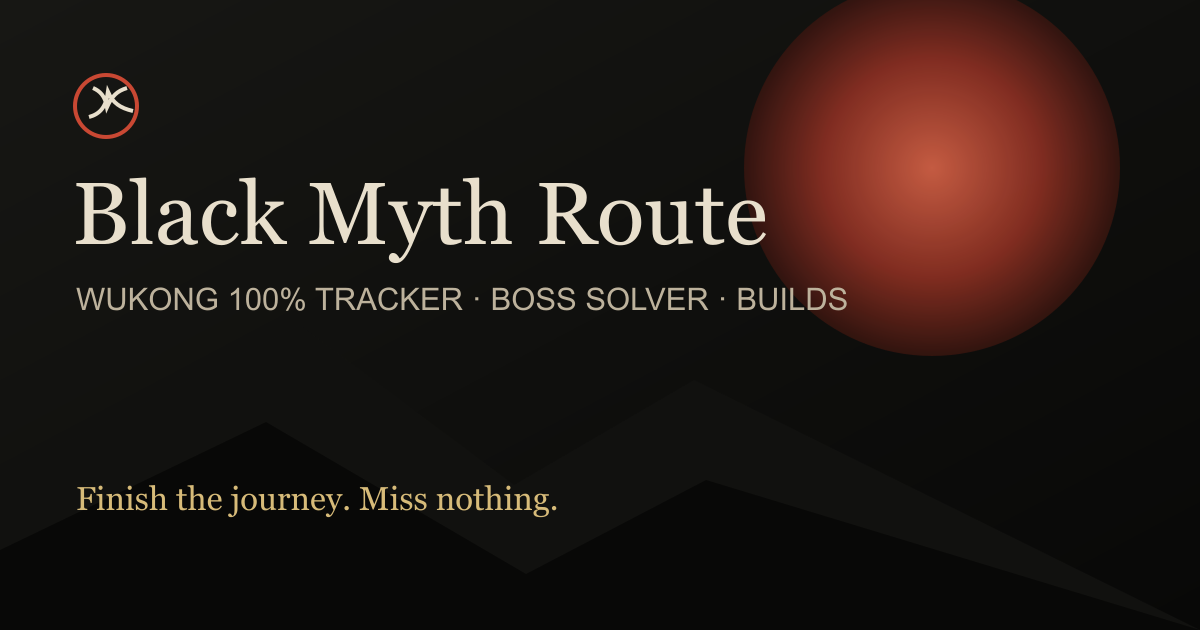
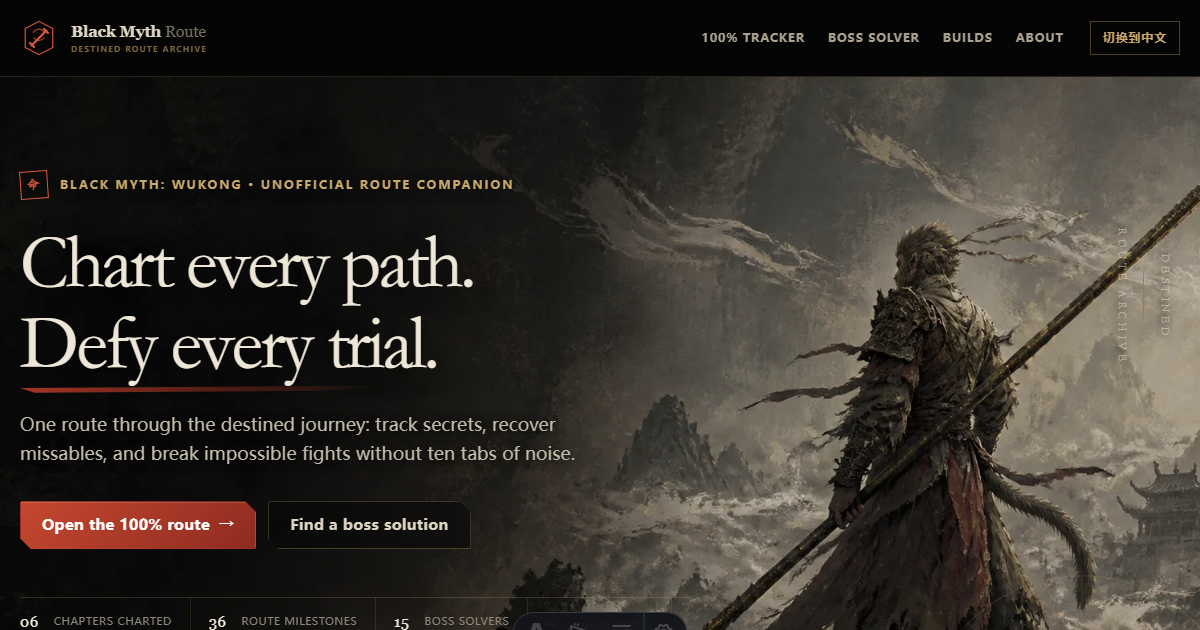
feat: redesign site with mythic monkey-king visual system

diff --git a/src/styles/visual-v2.css b/src/styles/visual-v2.css
@@ -1,0 +1,243 @@
+@layer base {
+  :root {
+    --cinnabar-400: #e05b3f;
+    --cinnabar-500: #b83a28;
+    --cinnabar-700: #642016;
+    --gold-300: #c9a86a;
+    --gold-500: #846a3c;
+    --paper-50: #eee7d7;
+    --paper-100: #ddd4c1;
+    --paper-300: #aaa18f;
+    --paper-500: #756e61;
+    --ink-950: #060706;
+    --ink-900: #0d0e0c;
+    --ink-850: #121310;
+    --ink-800: #191a16;
+    --line: rgba(216, 204, 180, .13);
+    --line-strong: rgba(216, 204, 180, .27);
+    --serif: 'STKaiti', 'KaiTi', 'Noto Serif SC', 'Source Han Serif SC', 'Songti SC', Georgia, serif;
+  }
+
+  body {
+    background:
+      radial-gradient(circle at 18% 18%, rgba(139, 116, 72, .07), transparent 32rem),
+      linear-gradient(90deg, rgba(255,255,255,.012) 1px, transparent 1px) 0 0 / 72px 72px,
+      var(--ink-950);
+  }
+}
+
+@layer components {
+  .site-header {
+    border-bottom-color: rgba(201,168,106,.18);
+    background: rgba(5, 6, 5, .9);
+  }
+  .nav-shell { min-height: 76px; }
+  .brand { gap: 13px; }
+  .brand-mark { width: 38px; height: 38px; color: var(--cinnabar-400); filter: drop-shadow(0 0 12px rgba(224,91,63,.13)); }
+  .brand-lockup { display: grid; gap: 0; line-height: 1.1; }
+  .brand-word { font-family: Georgia, var(--serif); font-size: 1.02rem; letter-spacing: -.025em; }
+  .brand-lockup small { margin-top: 4px; color: var(--gold-500); font-family: var(--sans); font-size: .48rem; font-weight: 700; letter-spacing: .18em; }
+  .nav-links { gap: 13px; }
+  .nav-links a { position: relative; min-height: 42px; padding: 8px 5px; border-radius: 0; font-size: .75rem; font-weight: 650; letter-spacing: .07em; text-transform: uppercase; }
+  .nav-links a::after { content: ''; position: absolute; left: 50%; right: 50%; bottom: 3px; height: 1px; background: var(--cinnabar-400); transition: left 180ms ease, right 180ms ease; }
+  .nav-links a:hover, .nav-links a[aria-current='page'] { background: transparent; }
+  .nav-links a:hover::after, .nav-links a[aria-current='page']::after { left: 5px; right: 5px; }
+  .nav-links .lang-switch { min-height: 34px; margin-left: 8px; padding: 5px 12px; border-color: rgba(201,168,106,.36); color: var(--gold-300); }
+
+  .hero {
+    isolation: isolate;
+    min-height: min(970px, calc(100svh - 76px));
+    padding-block: clamp(94px, 14vh, 150px) 38px;
+    background: #090a08;
+  }
+  .hero::before {
+    inset: 0;
+    width: auto;
+    aspect-ratio: auto;
+    right: 0;
+    top: 0;
+    border-radius: 0;
+    background-image: url('/images/hero-monkey-pilgrim-v2.webp');
+    background-position: center center;
+    background-size: cover;
+    box-shadow: none;
+    opacity: .84;
+    filter: saturate(.82) contrast(1.06);
+  }
+  .hero::after {
+    inset: 0;
+    height: auto;
+    z-index: -1;
+    background:
+      linear-gradient(90deg, rgba(5,6,5,.98) 0%, rgba(5,6,5,.88) 31%, rgba(5,6,5,.26) 62%, rgba(5,6,5,.08) 100%),
+      linear-gradient(0deg, #060706 0%, rgba(6,7,6,.8) 8%, transparent 34%, rgba(6,7,6,.1) 78%, rgba(6,7,6,.56) 100%);
+  }
+  .hero-content { gap: 24px; }
+  .hero-content::before { content: ''; position: absolute; left: -24px; top: 3px; bottom: 168px; width: 1px; background: linear-gradient(var(--cinnabar-400), transparent 72%); opacity: .5; }
+  .hero-kicker { display: flex; align-items: center; gap: 12px; color: var(--gold-300); text-shadow: 0 2px 14px #000; }
+  .mini-seal { display: grid; width: 28px; aspect-ratio: 1; place-items: center; border: 1px solid var(--cinnabar-400); color: var(--cinnabar-400); font-family: var(--serif); font-size: .8rem; transform: rotate(-4deg); }
+  .display { max-width: 800px; font-size: clamp(3.5rem, 6.4vw, 6.5rem); color: var(--paper-50); letter-spacing: -.045em; text-shadow: 0 4px 24px rgba(0,0,0,.55); }
+  .display em { position: relative; color: var(--paper-50); }
+  .display em::after { content: ''; position: absolute; left: 0; right: 12%; bottom: -.07em; height: 7px; background: linear-gradient(90deg, var(--cinnabar-500), transparent); clip-path: polygon(0 32%, 100% 0, 83% 70%, 4% 100%); opacity: .9; }
+  .hero .lede { max-width: 590px; color: #c1b9a8; font-size: clamp(1rem, 1.5vw, 1.15rem); text-shadow: 0 2px 12px #000; }
+  .hero-actions { margin-top: 8px; }
+  .button {
+    min-height: 48px;
+    border-radius: 2px;
+    padding-inline: 21px;
+    clip-path: polygon(0 0, calc(100% - 11px) 0, 100% 11px, 100% 100%, 11px 100%, 0 calc(100% - 11px));
+    letter-spacing: .035em;
+  }
+  .button:not(.secondary):not(.ghost) { background: linear-gradient(135deg, #c44730, #8f2b20); box-shadow: inset 0 1px rgba(255,255,255,.14), 0 10px 35px rgba(154,45,30,.18); }
+  .button:not(.secondary):not(.ghost):hover { background: linear-gradient(135deg, #e05b3f, #a83324); }
+  .button.secondary { border-color: rgba(201,168,106,.33); background: rgba(7,8,7,.56); backdrop-filter: blur(8px); }
+  .button.secondary:hover { border-color: var(--gold-300); background: rgba(201,168,106,.08); }
+
+  .hero-proof { gap: 0; margin-top: 24px; border-top: 1px solid rgba(201,168,106,.22); border-bottom: 1px solid rgba(201,168,106,.12); width: fit-content; }
+  .hero-proof span { min-width: 126px; padding: 12px 18px 11px 0; margin-right: 18px; border-right: 1px solid rgba(201,168,106,.15); color: #8e887b; font-size: .67rem; letter-spacing: .06em; text-transform: uppercase; }
+  .hero-proof span::before { display: none; }
+  .hero-proof b { margin-right: 7px; color: var(--paper-50); font-family: Georgia, serif; font-size: .92rem; font-weight: 400; }
+  .hero-rune { position: absolute; z-index: 0; right: -68px; bottom: -90px; width: min(420px, 31vw); color: rgba(201,168,106,.12); pointer-events: none; }
+  .hero-rune svg { fill: none; stroke: currentColor; stroke-width: 1; }
+  .hero-rune svg circle:nth-child(2) { stroke-dasharray: 2 8; }
+  .hero-inscription { position: absolute; z-index: 2; right: max(26px, calc((100vw - 1180px) / 2 - 64px)); top: 20%; display: grid; justify-items: center; gap: 12px; color: rgba(238,231,215,.46); font-family: var(--serif); font-size: .7rem; letter-spacing: .32em; writing-mode: vertical-rl; text-shadow: 0 2px 9px #000; }
+  .hero-inscription i { width: 1px; height: 46px; background: var(--cinnabar-400); }
+
+  .starter-card {
+    grid-template-columns: 1.35fr repeat(3, 1fr) auto;
+    gap: 1px;
+    margin-top: 10px;
+    padding: 1px;
+    overflow: hidden;
+    border-color: rgba(201,168,106,.32);
+    border-radius: 2px;
+    background: rgba(201,168,106,.24);
+    box-shadow: 0 28px 80px rgba(0,0,0,.5);
+    clip-path: polygon(0 0, calc(100% - 18px) 0, 100% 18px, 100% 100%, 18px 100%, 0 calc(100% - 18px));
+  }
+  .starter-card > * { height: 100%; padding: 15px 17px; background: rgba(11,12,10,.93); }
+  .starter-intro { display: flex; align-items: center; gap: 13px; padding-right: 17px; }
+  .starter-seal { display: grid; flex: 0 0 38px; aspect-ratio: 1; place-items: center; border: 1px solid var(--cinnabar-400); color: var(--cinnabar-400); font-family: var(--serif); font-size: 1.05rem; transform: rotate(-3deg); }
+  .starter-intro strong { font-size: 1.05rem; }
+  .starter-intro span:not(.starter-seal) { letter-spacing: .035em; }
+  .starter-card .field { gap: 4px; }
+  .starter-card .field label { color: #8d836f; font-size: .61rem; letter-spacing: .13em; }
+  .starter-card .select { min-height: 38px; padding: 5px 8px; border: 0; border-bottom: 1px solid rgba(201,168,106,.25); border-radius: 0; background: transparent; }
+  .starter-card .starter-submit { align-self: stretch; min-height: 64px; margin: 0; border-radius: 0; clip-path: none; }
+
+  .section-head { position: relative; }
+  .section-head::before { content: ''; position: absolute; left: -22px; top: 3px; width: 2px; height: 42px; background: var(--cinnabar-500); }
+  .section-title { color: var(--paper-50); }
+  .feature-grid { gap: 16px; border: 0; }
+  .feature-card {
+    position: relative;
+    min-height: 340px;
+    overflow: hidden;
+    padding: 28px;
+    border: 1px solid var(--line);
+    background:
+      radial-gradient(circle at 100% 0, rgba(201,168,106,.08), transparent 46%),
+      linear-gradient(145deg, #151612, #0d0e0c 66%);
+    clip-path: polygon(0 0, calc(100% - 19px) 0, 100% 19px, 100% 100%, 0 100%);
+  }
+  .feature-card::after { content: ''; position: absolute; inset: auto 0 0; height: 2px; background: linear-gradient(90deg, var(--cinnabar-500), transparent 72%); transform: scaleX(.22); transform-origin: left; transition: transform 220ms ease; }
+  .feature-card:hover::after { transform: scaleX(1); }
+  .feature-sigil { position: absolute; top: 25px; right: 25px; width: 68px; height: 68px; fill: none; stroke: rgba(201,168,106,.32); stroke-width: 1.3; }
+  .feature-card h3 { max-width: 260px; margin-top: 118px; color: var(--paper-50); }
+  .feature-card p { max-width: 300px; }
+
+  .progress-orbit::before { border-color: rgba(201,168,106,.25); box-shadow: inset 0 0 70px rgba(201,168,106,.04); }
+  .progress-orbit::after { border-color: rgba(201,168,106,.22); }
+  .progress-orbit .sun { position: relative; border: 1px solid rgba(224,91,63,.45); background: radial-gradient(circle at 42% 38%, #773326, #241410 62%, #0a0b09 70%); }
+  .progress-orbit .sun::before { content: '悟'; position: absolute; top: -36%; right: -24%; color: rgba(201,168,106,.15); font-family: var(--serif); font-size: 8rem; font-weight: 700; }
+
+  .page-hero {
+    position: relative;
+    overflow: hidden;
+    isolation: isolate;
+    padding-block: 98px 70px;
+    background:
+      linear-gradient(90deg, rgba(6,7,6,.98), rgba(6,7,6,.83) 52%, rgba(6,7,6,.45)),
+      url('/images/hero-monkey-pilgrim-v2.webp') center 29% / cover;
+  }
+  .page-hero::after { content: ''; position: absolute; inset: 0; z-index: -1; background: linear-gradient(0deg, var(--ink-950), transparent 45%); }
+  .page-hero .shell { position: relative; z-index: 1; }
+  .page-hero .shell::before { content: ''; position: absolute; left: -22px; top: 0; width: 2px; height: 100%; background: linear-gradient(var(--cinnabar-500), transparent); }
+  .page-title { color: var(--paper-50); text-shadow: 0 4px 22px rgba(0,0,0,.64); }
+
+  .progress-panel, .control-panel, .notice-card, .content-card, .aside-card {
+    border-color: rgba(201,168,106,.17);
+    border-radius: 2px;
+    background: linear-gradient(145deg, rgba(22,23,19,.92), rgba(11,12,10,.94));
+    clip-path: polygon(0 0, calc(100% - 12px) 0, 100% 12px, 100% 100%, 0 100%);
+  }
+  .progress-ring { background: conic-gradient(var(--cinnabar-400) calc(var(--progress) * 1%), #2c2a24 0); }
+  .progress-ring::after { content: '路'; position: absolute; right: -12px; top: -8px; color: rgba(201,168,106,.2); font-family: var(--serif); font-size: 2.4rem; }
+  .filter-button { border-radius: 2px; }
+  .filter-button:hover, .filter-button[aria-pressed='true'] { border-color: var(--cinnabar-500); background: rgba(184,58,40,.15); }
+  .input, .select { border-radius: 2px; border-color: rgba(201,168,106,.18); background: #0e0f0d; }
+  .objective-card {
+    border-radius: 2px;
+    border-color: rgba(201,168,106,.13);
+    background: linear-gradient(90deg, rgba(20,21,18,.96), rgba(11,12,10,.92));
+    clip-path: polygon(0 0, calc(100% - 10px) 0, 100% 10px, 100% 100%, 0 100%);
+  }
+  .objective-card::before { content: ''; position: absolute; inset: 0 auto 0 0; width: 2px; background: var(--gold-500); opacity: .55; }
+  .objective-card[data-category='boss']::before { background: var(--cinnabar-400); }
+  .objective-card[data-category='secret']::before { background: #877449; }
+  .objective-card:hover { border-color: rgba(201,168,106,.38); }
+  .objective-check { border-radius: 2px; transform: rotate(45deg) scale(.78); }
+  .objective-check:checked { border-radius: 2px; }
+  .objective-copy h3 { color: var(--paper-50); }
+
+  .card-grid { gap: 16px; }
+  .boss-card, .build-card {
+    min-height: 310px;
+    border-radius: 2px;
+    border-color: rgba(201,168,106,.16);
+    background:
+      radial-gradient(circle at 90% 8%, rgba(130,103,58,.11), transparent 38%),
+      linear-gradient(150deg, #171814, #0b0c0a 72%);
+    clip-path: polygon(0 0, calc(100% - 18px) 0, 100% 18px, 100% 100%, 0 100%);
+  }
+  .boss-card::before { content: attr(data-chapter-mark); inset: auto 22px 0 auto; width: auto; height: auto; border: 0; color: rgba(201,168,106,.09); font-family: var(--serif); font-size: 7.5rem; line-height: .8; }
+  .boss-card::after, .build-card::after { content: ''; position: absolute; inset: 0 0 auto; height: 2px; background: linear-gradient(90deg, var(--cinnabar-500), transparent 65%); opacity: .55; }
+  .boss-card:hover, .build-card:hover { border-color: rgba(201,168,106,.55); transform: translateY(-4px); }
+  .boss-card h2, .build-card h2 { color: var(--paper-50); }
+  .difficulty i { border-radius: 0; transform: skewX(-13deg); }
+
+  .site-footer { position: relative; background: linear-gradient(#090a08, #050605); }
+  .site-footer::before { content: '路'; position: absolute; left: 4%; bottom: -34px; color: rgba(201,168,106,.035); font-family: var(--serif); font-size: 14rem; line-height: 1; }
+}
+
+@media (max-width: 960px) {
+  .starter-card { grid-template-columns: 1fr 1fr; gap: 1px; }
+  .starter-card .starter-intro { grid-column: 1 / -1; }
+  .starter-card .starter-submit { min-height: 58px; }
+  .hero-inscription { display: none; }
+}
+
+@media (max-width: 720px) {
+  .nav-shell { min-height: 66px; }
+  .brand-lockup small { display: none; }
+  .nav-links { inset: 67px 14px auto; border-radius: 2px; border-color: rgba(201,168,106,.25); }
+  .nav-links a { padding-inline: 14px; }
+  .hero { min-height: 900px; padding-top: 62px; }
+  .hero::before { inset: 0; right: 0; top: 0; width: auto; background-position: 69% center; opacity: .72; }
+  .hero::after { background: linear-gradient(180deg, rgba(5,6,5,.92) 0%, rgba(5,6,5,.68) 42%, rgba(5,6,5,.23) 65%, #060706 92%), linear-gradient(90deg, rgba(5,6,5,.78), transparent); }
+  .hero-content { gap: 20px; }
+  .hero-content::before { left: -7px; bottom: 200px; }
+  .display { max-width: 94%; font-size: clamp(3rem, 14vw, 4.3rem); }
+  .hero .lede { max-width: 94%; font-size: .98rem; }
+  .hero-proof { display: grid; grid-template-columns: 1fr 1fr; width: 100%; margin-top: 12px; }
+  .hero-proof span { min-width: 0; margin: 0; padding: 9px 8px 9px 0; }
+  .hero-rune { right: -100px; bottom: 0; width: 320px; }
+  .starter-card { grid-template-columns: 1fr; margin-top: 8px; }
+  .starter-card .starter-intro { grid-column: auto; }
+  .starter-card > * { padding: 12px 14px; }
+  .starter-card .field { padding-block: 10px; }
+  .feature-card { min-height: 285px; }
+  .feature-card h3 { margin-top: 92px; }
+  .page-hero { padding-block: 78px 58px; background-position: 67% center; }
+}
+
